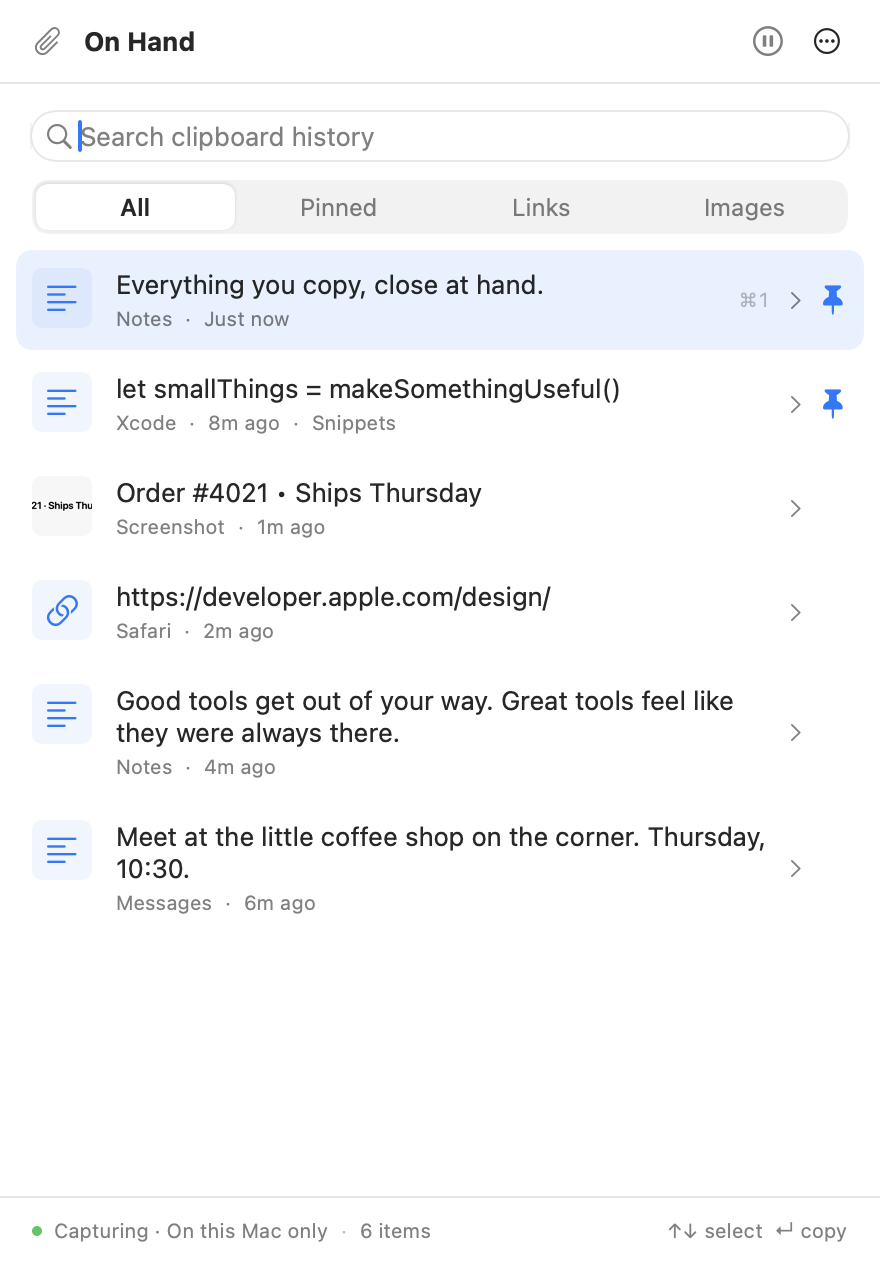
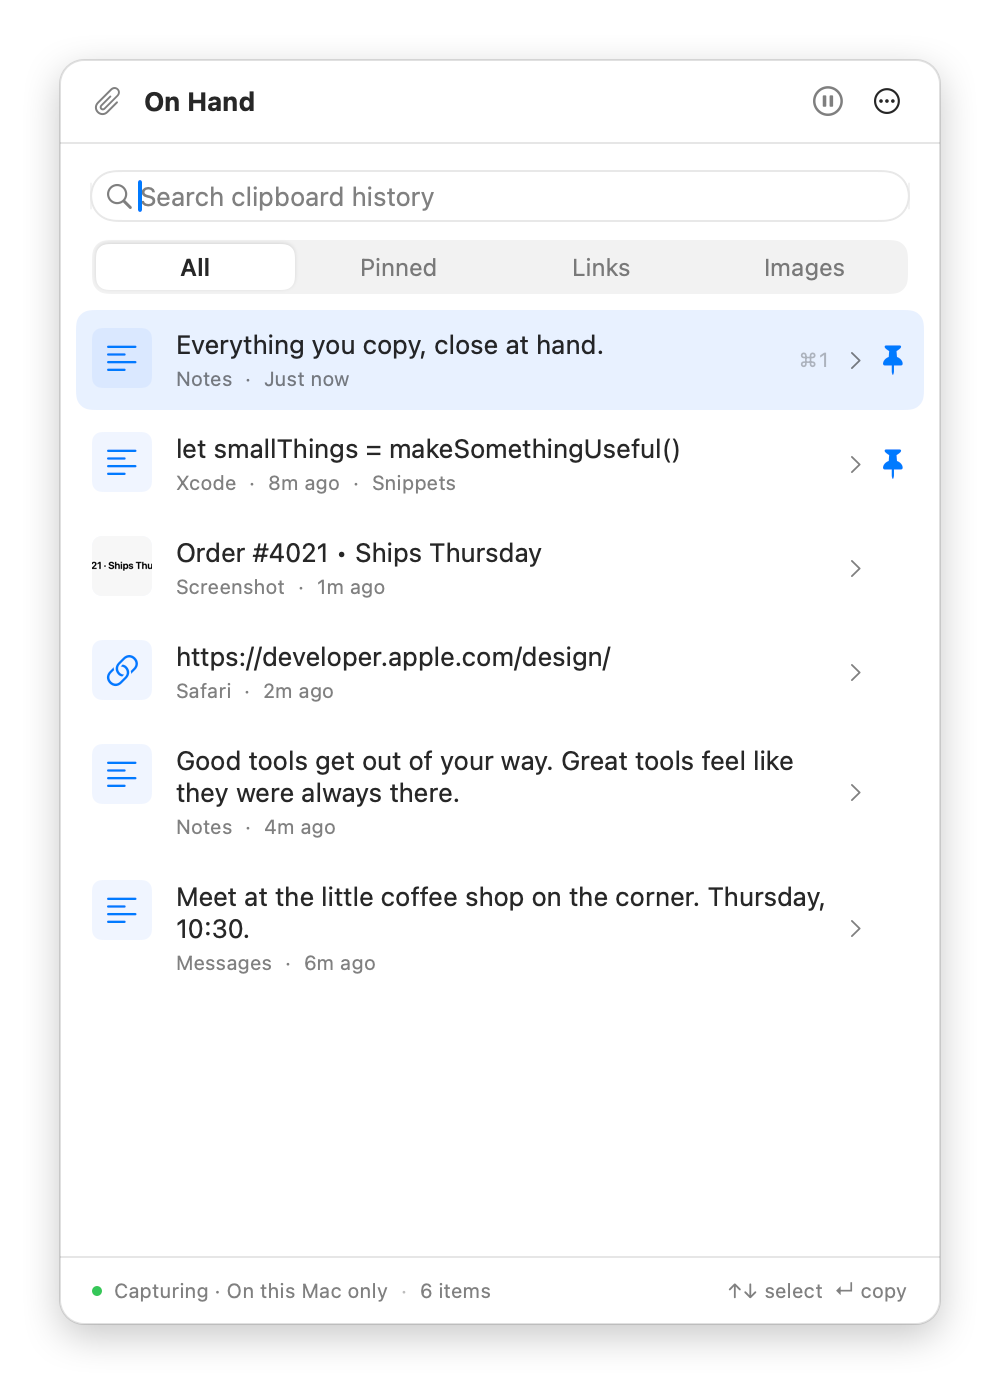
docs: frame screenshots like macOS windows so they stand out on white
Refs #31

diff --git a/README.md b/README.md
@@ -3,7 +3,7 @@
 **Copy it once. Find it again.** On Hand is a free, open-source clipboard manager for Mac. It remembers the text, links, and images you copy, so you can search for them later and copy them back, and it keeps everything on your Mac.
 
 <p align="center">
-  <img src="docs/images/history.png" alt="On Hand's history panel listing recent clips" width="360">
+  <img src="docs/images/history.png" alt="On Hand's history panel listing recent clips" width="400">
 </p>
 
 - **Search everything you copied**, including the text inside screenshots.
@@ -60,9 +60,9 @@ To have On Hand start with your Mac, turn on **Launch at login** in Settings.
 - **Pause capture** with the pause button in the header before copying something private.
 
 <p align="center">
-  <img src="docs/images/screenshot-text.png" alt="Previewing a copied screenshot with its recognized text" width="300">
+  <img src="docs/images/screenshot-text.png" alt="Previewing a copied screenshot with its recognized text" width="330">
   &nbsp;
-  <img src="docs/images/pinboards.png" alt="Pinned clips grouped into boards" width="300">
+  <img src="docs/images/pinboards.png" alt="Pinned clips grouped into boards" width="330">
 </p>
 
 ## Privacy
